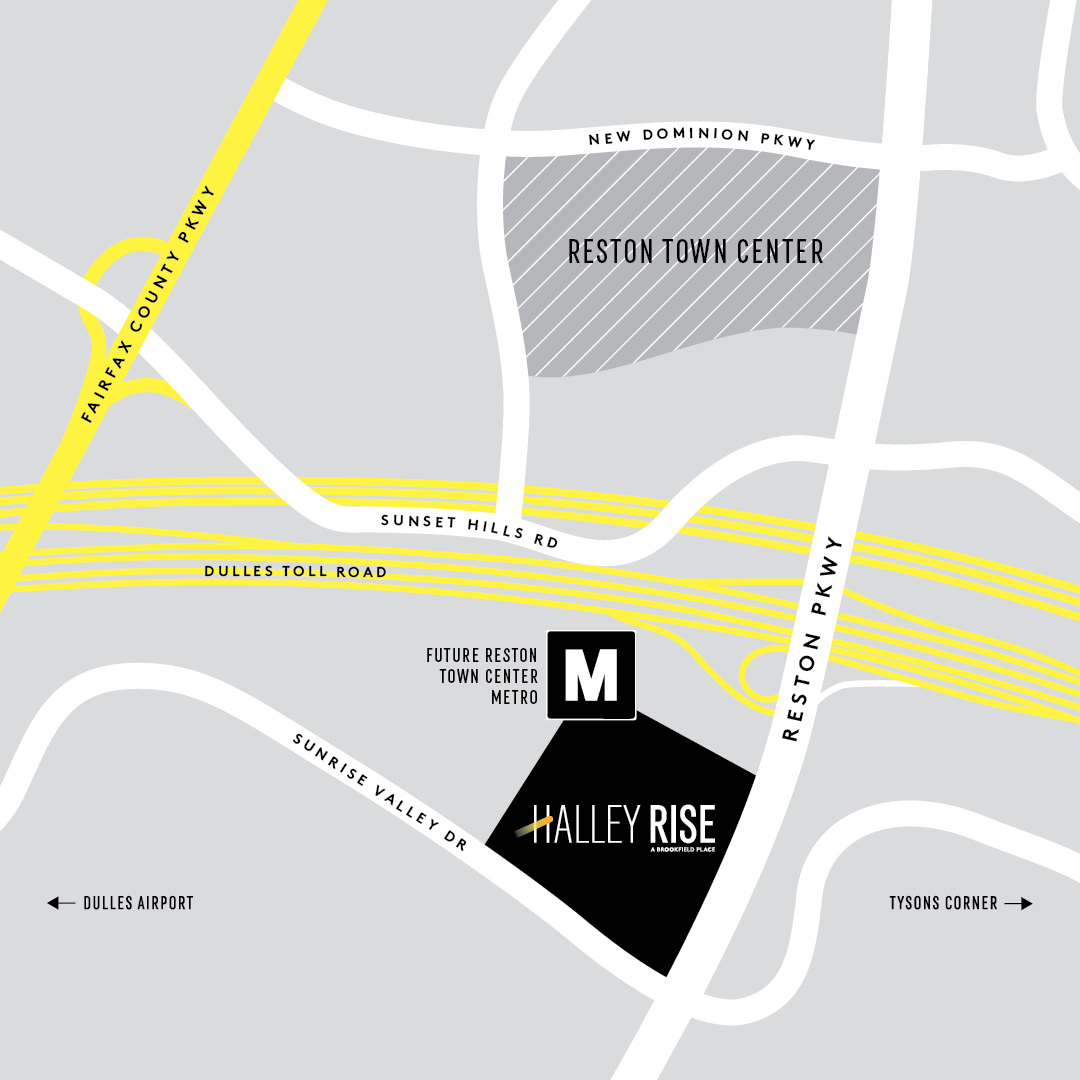
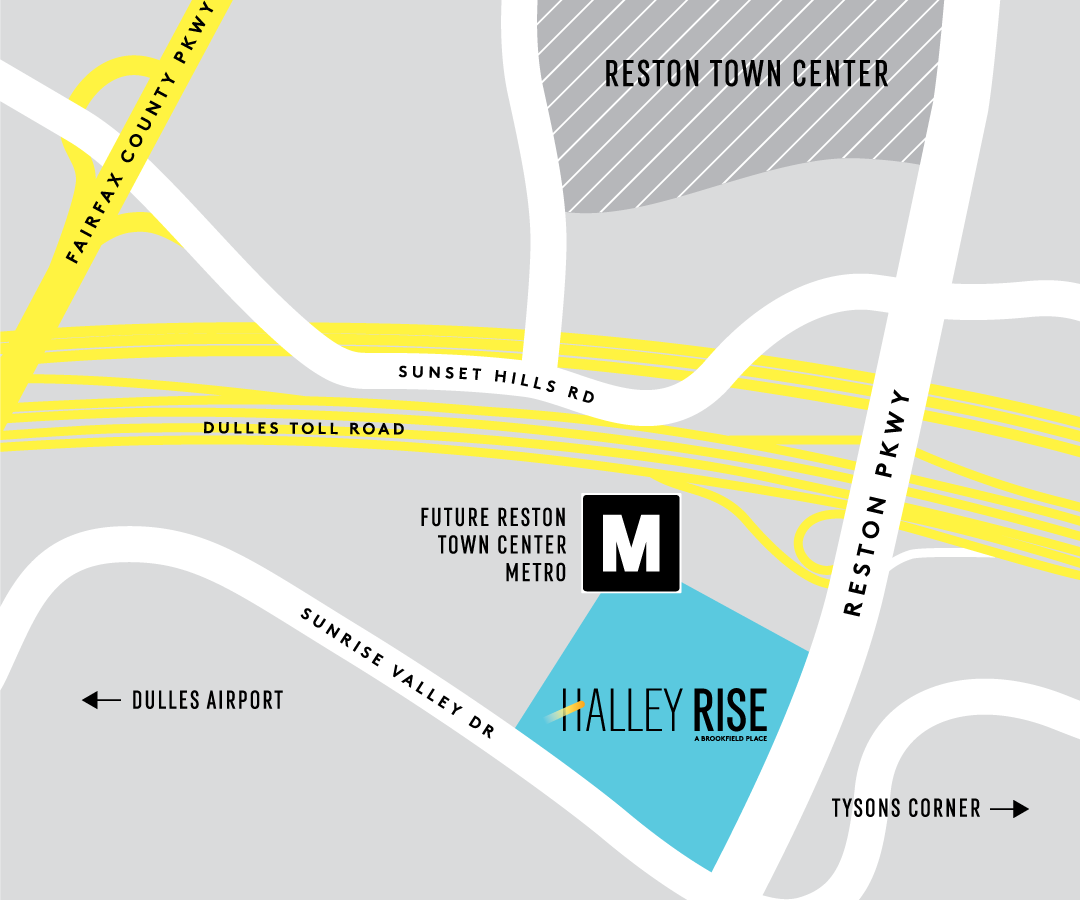
update map and cookie popup

diff --git a/src/partials/cookie-consent.html b/src/partials/cookie-consent.html
@@ -1,8 +1,9 @@
 <div id="popup-cookie-consent" style="display: none;" class="cookie-consent small-bg-white small-color-black pt1 pl1 pr1 pb1">
+  <div id="popup-close" class="button-cookie-consent"><span class="close-icon"></span></div>
   <p class="h5">Cookie Information and Consent Request</p>
   <p class="h5 pt025">Brookfield Properties Cookie Policy</p>
   <p class="pt05 pb05 mb0 small">This website uses cookies, including third-party cookies, which allow Brookfield Properties to obtain information about your visit to the website. Please click the &ldquo;Learn More&rdquo; link below if you would like more information about the cookies used on this website. By continuing to use this website, you consent to the use of cookies.</p>
   <p class="mt0 pt0 small"><a href="{{root}}/documents/terms#section-cookie-policy">Learn More</a></p>
-  <hr>
-  <button id="button-cookie-consent" class="button special"><span class="u">CONTINUE</span></button>
+<!--  <hr>-->
+<!--  <button class="button-cookie-consent button special"><span class="u">CONTINUE</span></button>-->
 </div>

diff --git a/src/pages/index.html b/src/pages/index.html
@@ -85,8 +85,8 @@ og-image: TODO
     <img alt="Green space in Halley Rise" src="{{root}}assets/img/HALLEY_RISE-rendering-pedestrian_south-750x500px.jpg" srcset="{{root}}assets/img/HALLEY_RISE-rendering-pedestrian_south-750x500px.jpg 750w, {{root}}assets/img/HALLEY_RISE-rendering-pedestrian_south-1500x1000px.jpg 1500w">
   </div>
 </div>
-<div class="grid-x">
-  <div class="cell small-12 large-5 full large-order-2 small-bg-pattern-r">
+<div class="grid-x small-bg-pattern-r">
+  <div class="cell small-12 large-5 full large-order-2">
     <img alt="Map of Halley Rise location in Reston, VA" src="{{root}}assets/img/HALLEY_RISE-map-1080px.png">
   </div>
   <div class="cell small-12 large-7 large-order-1">

diff --git a/src/assets/scss/components/_cookie-consent.scss b/src/assets/scss/components/_cookie-consent.scss
@@ -16,3 +16,35 @@
     font-size: 1.25rem;
   }
 }
+
+#popup-close {
+  position: absolute;
+  display: inline-block;
+  top: 0;
+  right: .75rem;
+}
+
+.close-icon {
+  cursor: pointer;
+  padding: 1rem;
+  margin: 0;
+  display: inline-block;
+  &::before {
+    content: "";
+    display: inline-block;
+    width: 2px;
+    height: 1.5rem;
+    background-color: $black;
+    transform: rotate(45deg);
+  }
+  &::after {
+    content: "";
+    display: inline-block;
+    width: 2px;
+    height: 1.5rem;
+    background-color: $black;
+    transform: rotate(-45deg);
+    position: relative;
+    left: -2px;
+  }
+}

diff --git a/src/assets/js/app.js b/src/assets/js/app.js
@@ -97,7 +97,7 @@ if (!docCookies.hasItem('halleyrisecookieconsent')) {
   showPopup($('#popup-cookie-consent'));
 }
 
-$('#button-cookie-consent').click(function() {
+$('.button-cookie-consent').click(function() {
   closePopup($('#popup-cookie-consent'));
   docCookies.setItem('halleyrisecookieconsent',true, 'Infinity');
 });
